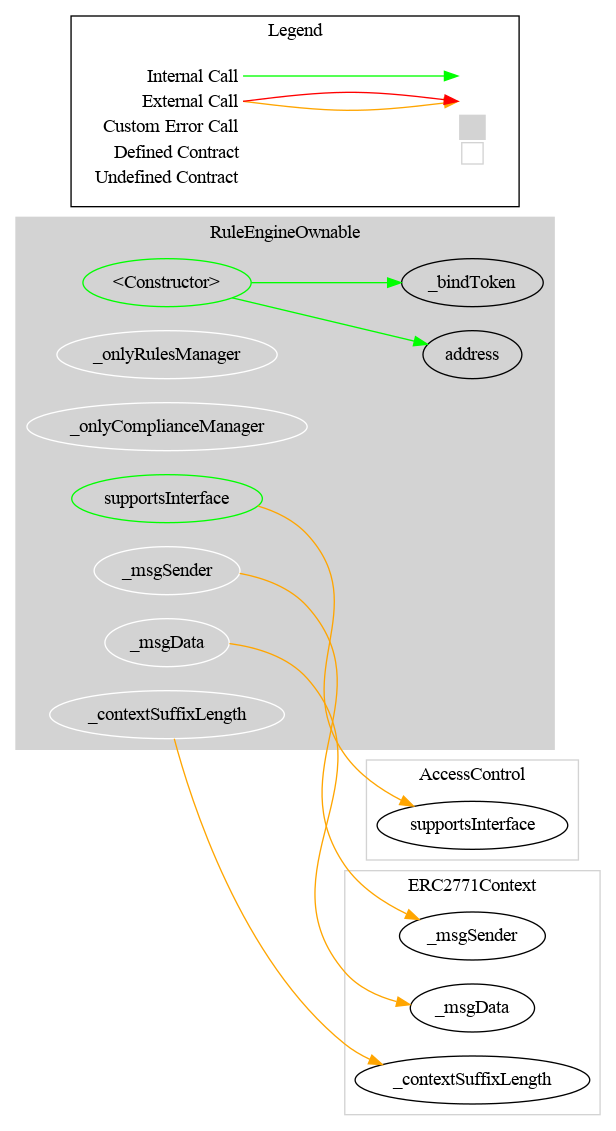
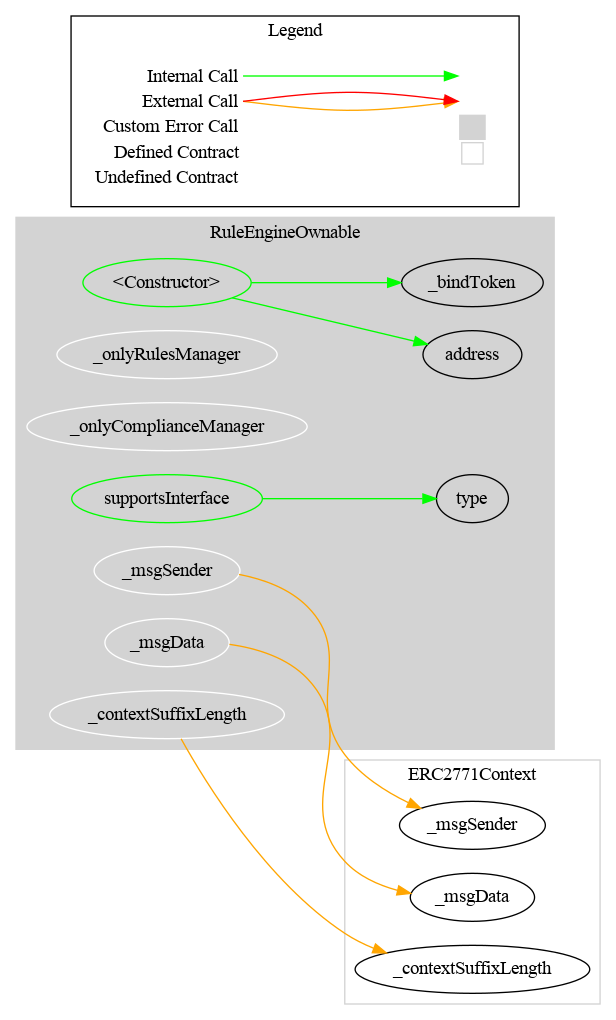
Update surya schema

diff --git a/doc/schema/surya/surya_report/surya_report_ICompliance.sol.md b/doc/schema/surya/surya_report/surya_report_ICompliance.sol.md
@@ -5,7 +5,7 @@
 
 |  File Name  |  SHA-1 Hash  |
 |-------------|--------------|
-| ./deployment/RuleEngineOwnable.sol | c0ea173590b1935071e1d03d5a4c44bbf372b444 |
+| ./mocks/ICompliance.sol | ad82538f6d414b1020a82240c7bc7df561b329a1 |
 
 
 ### Contracts Description Table
@@ -15,14 +15,15 @@
 |:----------:|:-------------------:|:----------------:|:----------------:|:---------------:|
 |     └      |  **Function Name**  |  **Visibility**  |  **Mutability**  |  **Modifiers**  |
 ||||||
-| **RuleEngineOwnable** | Implementation | ERC2771ModuleStandalone, RuleEngineBase, Ownable |||
-| └ | <Constructor> | Public ❗ | 🛑  | ERC2771ModuleStandalone Ownable |
-| └ | _onlyRulesManager | Internal 🔒 | 🛑  | onlyOwner |
-| └ | _onlyComplianceManager | Internal 🔒 | 🛑  | onlyOwner |
-| └ | supportsInterface | Public ❗ |   |NO❗ |
-| └ | _msgSender | Internal 🔒 |   | |
-| └ | _msgData | Internal 🔒 |   | |
-| └ | _contextSuffixLength | Internal 🔒 |   | |
+| **ICompliance** | Interface |  |||
+| └ | bindToken | External ❗ | 🛑  |NO❗ |
+| └ | unbindToken | External ❗ | 🛑  |NO❗ |
+| └ | isTokenBound | External ❗ |   |NO❗ |
+| └ | getTokenBound | External ❗ |   |NO❗ |
+| └ | canTransfer | External ❗ |   |NO❗ |
+| └ | transferred | External ❗ | 🛑  |NO❗ |
+| └ | created | External ❗ | 🛑  |NO❗ |
+| └ | destroyed | External ❗ | 🛑  |NO❗ |
 
 
 ### Legend

diff --git a/doc/schema/surya/surya_report/surya_report_IERC7551ComplianceSubset.sol.md b/doc/schema/surya/surya_report/surya_report_IERC7551ComplianceSubset.sol.md
@@ -5,7 +5,7 @@
 
 |  File Name  |  SHA-1 Hash  |
 |-------------|--------------|
-| ./deployment/RuleEngineOwnable.sol | c0ea173590b1935071e1d03d5a4c44bbf372b444 |
+| ./mocks/IERC7551ComplianceSubset.sol | ac1d94775de7a76a4da688bd97a149df399f9a5b |
 
 
 ### Contracts Description Table
@@ -15,14 +15,8 @@
 |:----------:|:-------------------:|:----------------:|:----------------:|:---------------:|
 |     └      |  **Function Name**  |  **Visibility**  |  **Mutability**  |  **Modifiers**  |
 ||||||
-| **RuleEngineOwnable** | Implementation | ERC2771ModuleStandalone, RuleEngineBase, Ownable |||
-| └ | <Constructor> | Public ❗ | 🛑  | ERC2771ModuleStandalone Ownable |
-| └ | _onlyRulesManager | Internal 🔒 | 🛑  | onlyOwner |
-| └ | _onlyComplianceManager | Internal 🔒 | 🛑  | onlyOwner |
-| └ | supportsInterface | Public ❗ |   |NO❗ |
-| └ | _msgSender | Internal 🔒 |   | |
-| └ | _msgData | Internal 🔒 |   | |
-| └ | _contextSuffixLength | Internal 🔒 |   | |
+| **IERC7551ComplianceSubset** | Interface |  |||
+| └ | canTransferFrom | External ❗ |   |NO❗ |
 
 
 ### Legend

diff --git a/doc/schema/surya/surya_report/surya_report_ComplianceInterfaceId.sol.md b/doc/schema/surya/surya_report/surya_report_ComplianceInterfaceId.sol.md
@@ -5,7 +5,7 @@
 
 |  File Name  |  SHA-1 Hash  |
 |-------------|--------------|
-| ./deployment/RuleEngineOwnable.sol | c0ea173590b1935071e1d03d5a4c44bbf372b444 |
+| ./modules/library/ComplianceInterfaceId.sol | 866fb442493595cbaf8fd20bcd8c1767a5f98123 |
 
 
 ### Contracts Description Table
@@ -15,14 +15,7 @@
 |:----------:|:-------------------:|:----------------:|:----------------:|:---------------:|
 |     └      |  **Function Name**  |  **Visibility**  |  **Mutability**  |  **Modifiers**  |
 ||||||
-| **RuleEngineOwnable** | Implementation | ERC2771ModuleStandalone, RuleEngineBase, Ownable |||
-| └ | <Constructor> | Public ❗ | 🛑  | ERC2771ModuleStandalone Ownable |
-| └ | _onlyRulesManager | Internal 🔒 | 🛑  | onlyOwner |
-| └ | _onlyComplianceManager | Internal 🔒 | 🛑  | onlyOwner |
-| └ | supportsInterface | Public ❗ |   |NO❗ |
-| └ | _msgSender | Internal 🔒 |   | |
-| └ | _msgData | Internal 🔒 |   | |
-| └ | _contextSuffixLength | Internal 🔒 |   | |
+| **ComplianceInterfaceId** | Library |  |||
 
 
 ### Legend

diff --git a/doc/schema/surya/surya_report/surya_report_RulesManagementModule.sol.md b/doc/schema/surya/surya_report/surya_report_RulesManagementModule.sol.md
@@ -5,7 +5,7 @@
 
 |  File Name  |  SHA-1 Hash  |
 |-------------|--------------|
-| ./modules/RulesManagementModule.sol | eeb11b9ffc70fab119916187e532b859c6b45a37 |
+| ./modules/RulesManagementModule.sol | 197635bda28fa8af5cba2be10740ab1a044dc95c |
 
 
 ### Contracts Description Table
@@ -15,7 +15,7 @@
 |:----------:|:-------------------:|:----------------:|:----------------:|:---------------:|
 |     └      |  **Function Name**  |  **Visibility**  |  **Mutability**  |  **Modifiers**  |
 ||||||
-| **RulesManagementModule** | Implementation | AccessControl, RulesManagementModuleInvariantStorage, IRulesManagementModule |||
+| **RulesManagementModule** | Implementation | RulesManagementModuleInvariantStorage, IRulesManagementModule |||
 | └ | setRules | Public ❗ | 🛑  | onlyRulesManager |
 | └ | clearRules | Public ❗ | 🛑  | onlyRulesManager |
 | └ | addRule | Public ❗ | 🛑  | onlyRulesManager |

diff --git a/doc/schema/surya/surya_report/surya_report_RuleEngine.sol.md b/doc/schema/surya/surya_report/surya_report_RuleEngine.sol.md
@@ -5,7 +5,7 @@
 
 |  File Name  |  SHA-1 Hash  |
 |-------------|--------------|
-| ./RuleEngine.sol | 570421933a0eb92cb20a4d15df6e3105a7c7ffbc |
+| ./deployment/RuleEngine.sol | 594c76e5f85c16253d350e636fb26372bf8c892f |
 
 
 ### Contracts Description Table
@@ -15,7 +15,7 @@
 |:----------:|:-------------------:|:----------------:|:----------------:|:---------------:|
 |     └      |  **Function Name**  |  **Visibility**  |  **Mutability**  |  **Modifiers**  |
 ||||||
-| **RuleEngine** | Implementation | ERC2771ModuleStandalone, RuleEngineBase |||
+| **RuleEngine** | Implementation | ERC2771ModuleStandalone, RuleEngineBase, AccessControl |||
 | └ | <Constructor> | Public ❗ | 🛑  | ERC2771ModuleStandalone |
 | └ | hasRole | Public ❗ |   |NO❗ |
 | └ | supportsInterface | Public ❗ |   |NO❗ |

diff --git a/doc/schema/surya/surya_report/surya_report_RuleConditionalTransferLight.sol.md b/doc/schema/surya/surya_report/surya_report_RuleConditionalTransferLight.sol.md
@@ -5,7 +5,7 @@
 
 |  File Name  |  SHA-1 Hash  |
 |-------------|--------------|
-| ./mocks/rules/operation/RuleConditionalTransferLight.sol | 800f450efe2ffe3a0ad617b93ee7bfa00eca3c9b |
+| ./mocks/rules/operation/RuleConditionalTransferLight.sol | 372b3d95b5492f195700fd2325a72ebb256629c9 |
 
 
 ### Contracts Description Table

diff --git a/doc/schema/surya/surya_report/surya_report_RuleOperationRevert.sol.md b/doc/schema/surya/surya_report/surya_report_RuleOperationRevert.sol.md
@@ -5,7 +5,7 @@
 
 |  File Name  |  SHA-1 Hash  |
 |-------------|--------------|
-| ./mocks/rules/operation/RuleOperationRevert.sol | 9109b1159f610eab9e6c8228bf69d610cd33c2c1 |
+| ./mocks/rules/operation/RuleOperationRevert.sol | d73e135daf5ae5f508edb4cd4b616513f3a99655 |
 
 
 ### Contracts Description Table

diff --git a/doc/schema/surya/surya_report/surya_report_RuleWhitelist.sol.md b/doc/schema/surya/surya_report/surya_report_RuleWhitelist.sol.md
@@ -5,7 +5,7 @@
 
 |  File Name  |  SHA-1 Hash  |
 |-------------|--------------|
-| ./mocks/rules/validation/RuleWhitelist.sol | cca0b0e103f5c56fb1b33ffea21252c20e0fb78e |
+| ./mocks/rules/validation/RuleWhitelist.sol | cf4b1568b96b381fa66ea41cf675e47455852055 |
 
 
 ### Contracts Description Table

diff --git a/doc/schema/surya/surya_report/surya_report_ERC3643ComplianceModule.sol.md b/doc/schema/surya/surya_report/surya_report_ERC3643ComplianceModule.sol.md
@@ -5,7 +5,7 @@
 
 |  File Name  |  SHA-1 Hash  |
 |-------------|--------------|
-| ./modules/ERC3643ComplianceModule.sol | 182aff8d18ff3f6df8e27fd9a93df1788cdb9339 |
+| ./modules/ERC3643ComplianceModule.sol | 450f861a6a5d7178fb1b038503e093e3a5491ac8 |
 
 
 ### Contracts Description Table

diff --git a/doc/schema/surya/surya_report/surya_report_IERC3643Compliance.sol.md b/doc/schema/surya/surya_report/surya_report_IERC3643Compliance.sol.md
@@ -5,7 +5,7 @@
 
 |  File Name  |  SHA-1 Hash  |
 |-------------|--------------|
-| ./interfaces/IERC3643Compliance.sol | 57f3433707ac6e17fb1d647d46ad44f5b5374f1d |
+| ./interfaces/IERC3643Compliance.sol | fc7795352d154b3fe13fd9df3c8a85b19d667cc5 |
 
 
 ### Contracts Description Table

diff --git a/doc/schema/surya/surya_report/surya_report_RuleEngineExposed.sol.md b/doc/schema/surya/surya_report/surya_report_RuleEngineExposed.sol.md
@@ -5,7 +5,7 @@
 
 |  File Name  |  SHA-1 Hash  |
 |-------------|--------------|
-| ./mocks/RuleEngineExposed.sol | 74134ecee35fced78e2e03658fc9d19ffad7c284 |
+| ./mocks/RuleEngineExposed.sol | 32dc5064e590129ba225606fb229838bdce53545 |
 
 
 ### Contracts Description Table

diff --git a/doc/schema/surya/surya_report/surya_report_IRule.sol.md b/doc/schema/surya/surya_report/surya_report_IRule.sol.md
@@ -5,7 +5,7 @@
 
 |  File Name  |  SHA-1 Hash  |
 |-------------|--------------|
-| ./interfaces/IRule.sol | fbb137a88e08184098f52f9f7999c417f60b1533 |
+| ./interfaces/IRule.sol | 300bdcb28ddc2795202d0629bc4bec231d5b301c |
 
 
 ### Contracts Description Table
